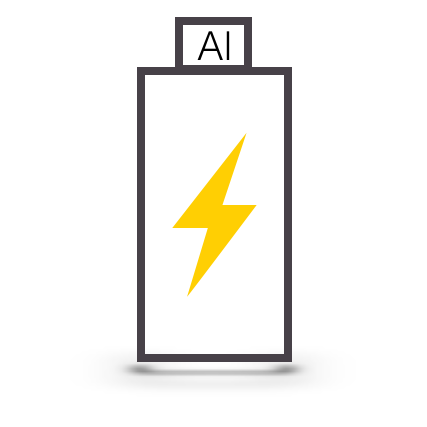
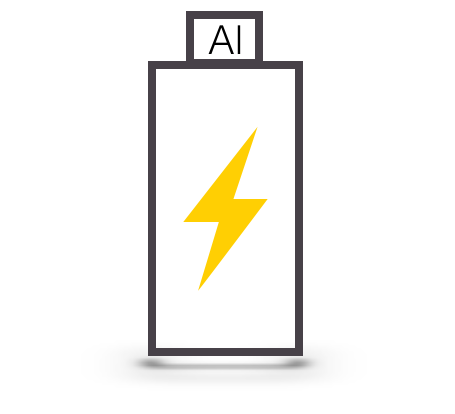
Updated 3 pages for description

diff --git a/3.html b/3.html
@@ -1,0 +1,69 @@
+<html>
+	<head>
+		<meta name = "viewport" content="initial-scale=1.0">
+		<link href="CSS/bootstrap.css" rel="stylesheet">
+		<link href="CSS/organize.css" rel="stylesheet">
+		<link rel="icon" href="icon.png">
+		<link href="https://fonts.googleapis.com/css?family=Oswald|Pacifico|Roboto" rel="stylesheet">
+
+		<title>Engineering Bucketlist</title>
+
+		<script>
+			function goTo()
+			{
+				window.location = "index.html";
+			}
+		</script>
+
+	</head>
+
+	<body>
+		<button class="btn btn-primary back theme-font" onclick="goTo()">BACK</button>
+		<h1 class="text-center title-font">Engineering Bucket List</h1>
+
+		<div class="container-fluid custom-container theme-font">
+			<h1 class="text-center"> #3: CREATING STANDARDIZED COMMUNICATION PROTOCOLS FOR AUTONOMOUS VEHICLES</h1>
+			<img src="3.png" class="title-img">
+
+			<h3 class="theme-font">DESCRIPTION:</h5>
+			<p class=" description">
+				Self-driving vehicles have become one of the hottest trends in today's automobile world, with companies such as Tesla, Google, and Uber producing "driverless vehicles." Though progress in this field has come a long way, there are still numerous technological challenges preventing truly autonomous driving.
+				<br><br>
+				A few challenges include:
+			</p>
+			<ul class="description">
+				<li>Difficulty at traffic signals to recognize the correct light</li>
+				<li>Difficulty at stopping at stop signs and knowing whether it's the car's turn to go</li>
+				<li>Merging lanes</li>
+				<li>Responding to emergency vehicles/following directions from a traffic police officer in case of emergency</li>
+			</ul>
+			<br><br>
+			<p class="description">
+				To create an environment in which vehicles would be able to do this, there would have to be a way for the car to "communicate" with its environment. This would include with other vehicles, with police, and with traffic signals as well.<br><br>
+
+				The new bluetooth protocol announced last year, <a href="https://www.bluetooth.com/bluetooth-technology/topology-options/le-mesh" target="_blank" class="blue">Bluetooth Mesh</a> would offer the best way to do this. The technology supports a "mesh" network of connecting m:m (many-to-many) devices, and transferring data over short distances. 
+				<br><br>
+
+				This challenge is to create a series of standardized protocols a vehicle would be able to exhange with it's environment, such as the order of vehicles at a stop sign, directions to be followed from a police officer, and data from vehicle to vehicle about tasks such as merging lanes.
+				<br><br>
+				Admittedly, full automation at this level would take years to perfect and equip at every stop light, emergency vehicle, and car on the road, but I hope to set the groundwork for it to be perfected in the future.
+
+
+			</p>
+
+			<h3 class="theme-font">WHERE I AM NOW:</h5>
+				<p class="description">
+					I've extensively researched current autonomous vehicle technology and how the current solution to the challenges mentioned above include either hard-coding every possible scenario, using machine-learning to analyze driver responses to different situations, or simply requiring a driver to be present and ready to take over at all times.
+					<br>
+					<br>
+					Additionally, I've learned how the Bluetooth Mesh protocol works, and how data can be transferred between a series of devices.
+				</p>
+
+			<h3 class="theme-font">WHAT'S LEFT:</h3>
+			<p class="description">
+				To first understand the technology in real-world applications, I'm reprogramming my RC cars at home to follow specific instructions over Bluetooth Mesh. Using a Raspberry Pi as the source, I will design an experiment to transmit instructions to the car, such as slow down here, turn left, etc.
+			</p>  
+
+		</div>
+	</body>
+</html>

diff --git a/2.html b/2.html
@@ -1,0 +1,53 @@
+<html>
+	<head>
+		<meta name = "viewport" content="initial-scale=1.0">
+		<link href="CSS/bootstrap.css" rel="stylesheet">
+		<link href="CSS/organize.css" rel="stylesheet">
+		<link rel="icon" href="icon.png">
+		<link href="https://fonts.googleapis.com/css?family=Oswald|Pacifico|Roboto" rel="stylesheet">
+
+		<title>Engineering Bucket List</title>
+
+		<script>
+			function goTo()
+			{
+				window.location = "index.html";
+			}
+		</script>
+
+	</head>
+
+	<body>
+		<button class="btn btn-primary back theme-font" onclick="goTo()">BACK</button>
+		<h1 class="text-center title-font">Engineering Bucket List</h1>
+
+		<div class="container-fluid custom-container theme-font">
+			<h1 class="text-center"> #2: IMPROVING THE RELIABILITY OF ALUMINUM-AIR BATTERIES</h1>
+			<img src="2.png" class="title-img">
+
+			<h3 class="theme-font">DESCRIPTION:</h5>
+			<p class=" description">
+				The aluminum-air battery is arguably the next “big thing” in all mobile device applications, from cell phones to laptops, and maybe even vehicles.
+				<br><br>
+				It’s no secret that the lithium-ion batteries used today are the limiting factor of almost all battery-powered devices. They are clunky, heavy, and in phones, they hardly last over a day. In cars, batteries must typically charge between 4-8 hours, then supply around 200 miles per charge. 
+				<br><br>
+				However, aluminum-air batteries can change all of that. In electric vehicles, it is estimated aluminum-air batteries can provide nearly 8 times the range of current batteries. In phones, these batteries can provide up to a week of use on a single charge. Finally, these batteries are significantly smaller and lighter than current options.
+				<br><br>
+				Unfortunately, the battery is not mainstream today due to numerous chemical faults, including the risk of aluminum corroding when exposed to air and water, and the fact that the aluminum anode must be replaced after every discharge. 
+				<br><br>
+				The challenge here is finding ways around the current shortfalls of aluminum-air batteries, whether that is testing the battery with different combinations of alloys to reduce the corrosion. Though this challenge blends into chemistry and physics, it still remains the key to a new world of engineering possibilities.
+
+			</p>
+
+			<h3 class="theme-font">WHERE I AM NOW:</h5>
+				<p class="description">
+					I have completed research into how aluminum air batteries function and their benefits. In fact, I have written a <a class="blue" href="flexbattery.pdf" target="_blank">business report for a virtual company</a> that would produce these types of batteries.					
+				</p>
+
+			<h3 class="theme-font">WHAT'S LEFT:</h3>
+				<p class="description">
+					In high school, I have learned enough chemistry to understand the underlying effects of how an aluminum-air battery would function and how the chemical energy would discharge to produce electrical energy. The next stage will occur in my college chemistry class, where I look forward to discussing how to overcome the challenges associated with aluminum-air batteries.
+				</p>
+		</div>
+	</body>
+</html>

diff --git a/1.html b/1.html
@@ -1,0 +1,49 @@
+<html>
+	<head>
+		<meta name = "viewport" content="initial-scale=1.0">
+		<link href="CSS/bootstrap.css" rel="stylesheet">
+		<link href="CSS/organize.css" rel="stylesheet">
+		<link rel="icon" href="icon.png">
+		<link href="https://fonts.googleapis.com/css?family=Oswald|Pacifico|Roboto" rel="stylesheet">
+
+		<script>
+			function goTo()
+			{
+				window.location = "index.html";
+			}
+		</script>
+
+	</head>
+
+	<body>
+		<button class="btn btn-primary back theme-font" onclick="goTo()">BACK</button>
+		<h1 class="text-center title-font">Engineering Bucket List</h1>
+
+		<div class="container-fluid custom-container theme-font">
+			<h1 class="text-center"> #1: SOLVING COMMON YET DANGEROUS HOUSEHOLD THREATS</h1>
+			<img src="1.png" class="title-img">
+
+			<h3 class="theme-font">DESCRIPTION:</h5>
+			<p class=" description">
+				Forgetting to turn the stove off before your vacation. Leaving for work with the garage door open. Leaving sprinklers runnining in the rain. Based off of months of collecting data, these are the three most common household threats.
+				<br>
+				<br>
+				It's these seemingly trifle issues that have the power to wreak incredible damage, but unfortunately, are simply too easy to forget. Especially in today's society where we are seemingly always on the move, these issues become exponentially more dangerous.
+				<br><br>
+				In this bucket challenge, I will search for ways to fix these three threats, and it seems the best way to do so is by building smart-home devices. This challenge is mostly complete as I have spent the last two years developing these devices, and two of them are already being sold for my startup, <a class="blue" target="_blank" href="http://www.iotspace.tech">IoT Space</a>.
+
+
+			</p>
+
+			<h3 class="theme-font">WHERE I AM NOW:</h5>
+				<p class="description">
+					To solve the specific issues mentioned above, I have developed three devices: StoveSensor, RainSensor, and GarageSensor.
+					<br><br>
+					<a target="_blank" class="blue" href="http://www.iotspace.tech">StoveSensor is available for purchase today</a>, as I've spent the last year or so developing the device.
+				</p>
+
+			<h3 class="theme-font">WHAT'S LEFT:</h3>
+
+		</div>
+	</body>
+</html>

diff --git a/4.html b/4.html
@@ -1,0 +1,49 @@
+<html>
+	<head>
+		<meta name = "viewport" content="initial-scale=1.0">
+		<link href="CSS/bootstrap.css" rel="stylesheet">
+		<link href="CSS/organize.css" rel="stylesheet">
+		<link rel="icon" href="icon.png">
+		<link href="https://fonts.googleapis.com/css?family=Oswald|Pacifico|Roboto" rel="stylesheet">
+
+		<script>
+			function goTo()
+			{
+				window.location = "index.html";
+			}
+		</script>
+
+	</head>
+
+	<body>
+		<button class="btn btn-primary back theme-font" onclick="goTo()">BACK</button>
+		<h1 class="text-center title-font">Engineering Bucket List</h1>
+
+		<div class="container-fluid custom-container theme-font">
+			<h1 class="text-center"> #4: IMPROVING CYBERSECURITY (NAE CHALLENGE)</h1>
+			<img src="4.png" class="title-img">
+
+			<h3 class="theme-font">DESCRIPTION:</h5>
+			<p class=" description">
+				Forgetting to turn the stove off before your vacation. Leaving for work with the garage door open. Leaving sprinklers runnining in the rain. Based off of months of collecting data, these are the three most common household threats.
+				<br>
+				<br>
+				It's these seemingly trifle issues that have the power to wreak incredible damage, but unfortunately, are simply too easy to forget. Especially in today's society where we are seemingly always on the move, these issues become exponentially more dangerous.
+				<br><br>
+				In this bucket challenge, I will search for ways to fix these three threats, and it seems the best way to do so is by building smart-home devices. This challenge is mostly complete as I have spent the last two years developing these devices, and two of them are already being sold for my startup, <a class="blue" target="_blank" href="http://www.iotspace.tech">IoT Space</a>.
+
+
+			</p>
+
+			<h3 class="theme-font">WHERE I AM NOW:</h5>
+				<p class="description">
+					To solve the specific issues mentioned above, I have developed three devices: StoveSensor, RainSensor, and GarageSensor.
+					<br><br>
+					<a target="_blank" class="blue" href="http://www.iotspace.tech">StoveSensor is available for purchase today</a>, as I've spent the last year or so developing the device.
+				</p>
+
+			<h3 class="theme-font">WHAT'S LEFT:</h3>
+
+		</div>
+	</body>
+</html>

diff --git a/5.html b/5.html
@@ -1,0 +1,49 @@
+<html>
+	<head>
+		<meta name = "viewport" content="initial-scale=1.0">
+		<link href="CSS/bootstrap.css" rel="stylesheet">
+		<link href="CSS/organize.css" rel="stylesheet">
+		<link rel="icon" href="icon.png">
+		<link href="https://fonts.googleapis.com/css?family=Oswald|Pacifico|Roboto" rel="stylesheet">
+
+		<script>
+			function goTo()
+			{
+				window.location = "index.html";
+			}
+		</script>
+
+	</head>
+
+	<body>
+		<button class="btn btn-primary back theme-font" onclick="goTo()">BACK</button>
+		<h1 class="text-center title-font">Engineering Bucket List</h1>
+
+		<div class="container-fluid custom-container theme-font">
+			<h1 class="text-center"> #5: DISRUPTING THE SMART-HOME</h1>
+			<img src="5.png" class="title-img">
+
+			<h3 class="theme-font">DESCRIPTION:</h5>
+			<p class=" description">
+				Forgetting to turn the stove off before your vacation. Leaving for work with the garage door open. Leaving sprinklers runnining in the rain. Based off of months of collecting data, these are the three most common household threats.
+				<br>
+				<br>
+				It's these seemingly trifle issues that have the power to wreak incredible damage, but unfortunately, are simply too easy to forget. Especially in today's society where we are seemingly always on the move, these issues become exponentially more dangerous.
+				<br><br>
+				In this bucket challenge, I will search for ways to fix these three threats, and it seems the best way to do so is by building smart-home devices. This challenge is mostly complete as I have spent the last two years developing these devices, and two of them are already being sold for my startup, <a class="blue" target="_blank" href="http://www.iotspace.tech">IoT Space</a>.
+
+
+			</p>
+
+			<h3 class="theme-font">WHERE I AM NOW:</h5>
+				<p class="description">
+					To solve the specific issues mentioned above, I have developed three devices: StoveSensor, RainSensor, and GarageSensor.
+					<br><br>
+					<a target="_blank" class="blue" href="http://www.iotspace.tech">StoveSensor is available for purchase today</a>, as I've spent the last year or so developing the device.
+				</p>
+
+			<h3 class="theme-font">WHAT'S LEFT:</h3>
+
+		</div>
+	</body>
+</html>

diff --git a/index.html b/index.html
@@ -3,8 +3,9 @@
 		<meta name = "viewport" content="initial-scale=1.0">
 		<link href="CSS/bootstrap.css" rel="stylesheet">
 		<link href="CSS/organize.css" rel="stylesheet">
-		<link rel="icon" href="Images/logo.png">
+		<link rel="icon" href="icon.png">
 		<link href="https://fonts.googleapis.com/css?family=Oswald|Pacifico" rel="stylesheet">
+		<title>Engineering Bucket List</title>
 
 		<script>
 			function goTo(page)
@@ -32,6 +33,7 @@
 				</div>
 			</button>
 			<!--<hr class="hr">-->
+
 			<button class="col-md-6 custom-container" onclick="goTo(2)">
 				<h3 class="text-center"><a href="2.html">2. IMPROVING THE RELIABILITY OF ALUMINUM-AIR BATTERIES</a></h3>
 				<img class="list-element" src="2.png">
@@ -65,7 +67,7 @@
 				</div>
 			</button>
 
-			<div class="custom-container">
+			<div class="col-md-12 custom-container">
 				<button class="center" onclick="goTo(5)">
 					<h3 class="text-center"><a href="5.html">5. DISRUPTING THE SMART-HOME</a></h3>
 					<img class="list-element" src="5.png">

diff --git a/CSS/organize.css b/CSS/organize.css
@@ -27,8 +27,7 @@
 .list-element {
 	margin: 0px auto;
 	display: block;
-	width: 30%;
-	min-width: 200px;
+	height: 20% ;
 }
 
 .custom-container {
@@ -42,6 +41,35 @@ button {
 	border: none;
 }
 
+.blue {
+	color: #0047ba;
+}
+
 a {
 	color: black;
+}
+
+.title-img {
+	width: 50%;
+	margin: 0px auto;
+	max-width: 400px;
+	min-width: 200px;
+	display: block;
+}
+
+ul {
+	padding-left: 10px;
+}
+
+.description {
+	font-family: 'Roboto', sans-serif;
+	padding-left: 5%;
+	padding-right: 5%;
+	font-size: 17px;
+}
+
+.back {
+	position: absolute;
+	left: 5px;
+	top: 5px;
 }
